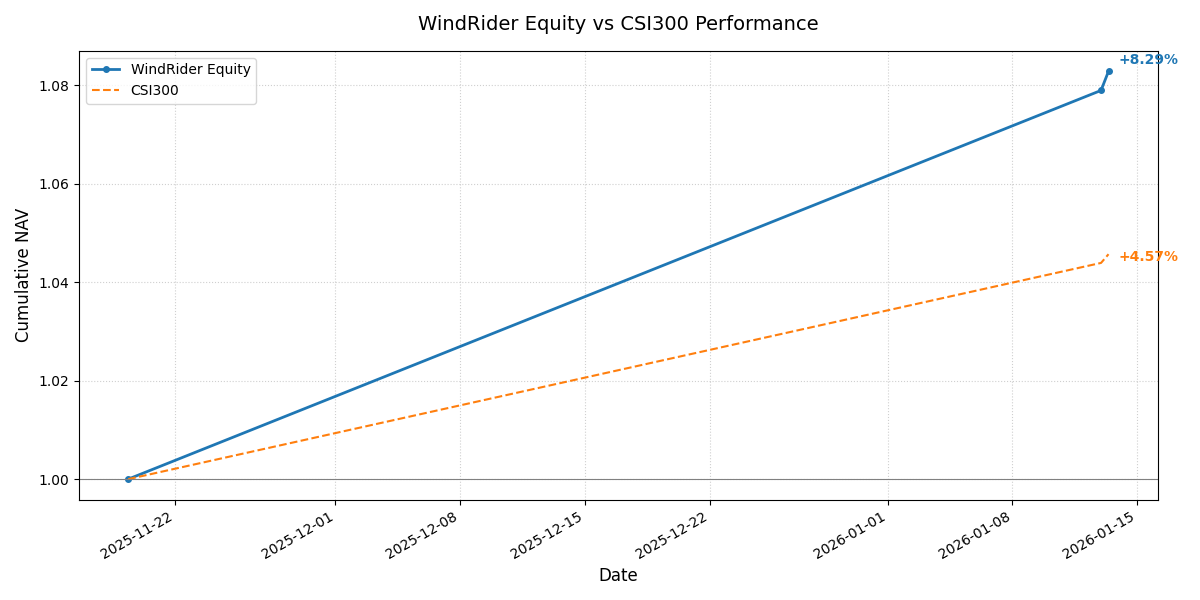
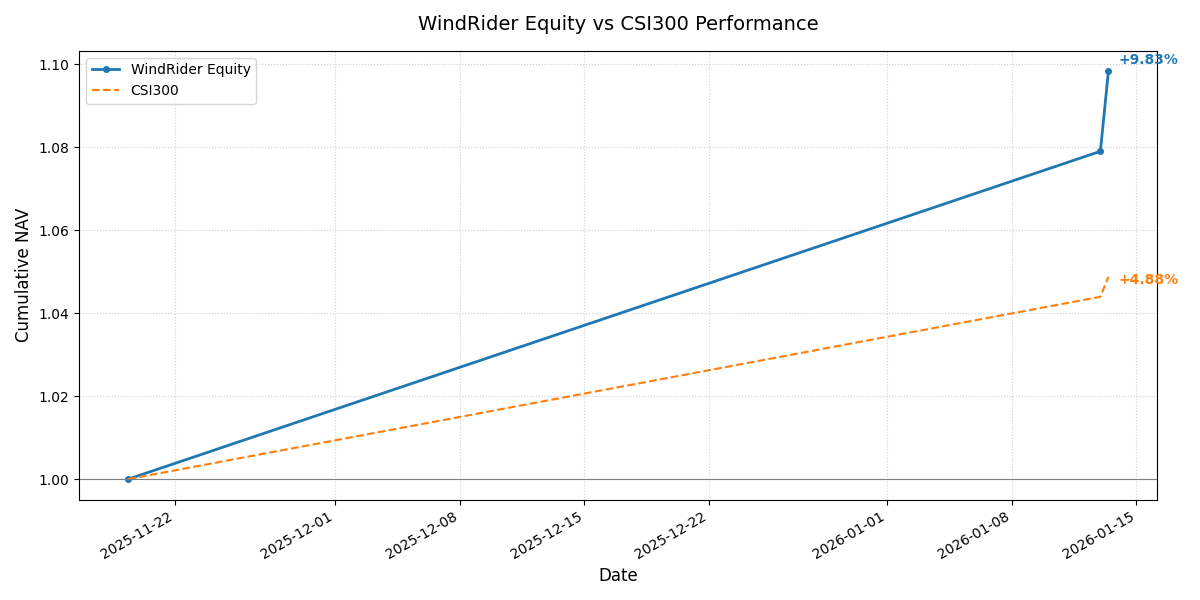
Updated Hugo site content

diff --git a/public/investment/position/index.html b/public/investment/position/index.html
@@ -9,10 +9,10 @@
 
 <meta name="viewport" content="width=device-width, initial-scale=1, shrink-to-fit=no">
 <meta name="robots" content="index, follow">
-<title>Positions | Hankou</title>
+<title>风舵股票组合 (WindRider Equity) /// 每日持仓 | Hankou</title>
 <meta name="keywords" content="">
-<meta name="description" content="The purpose of trading is to make a profit">
-<meta name="author" content="Acj">
+<meta name="description" content="WindRider Stock Portfolio">
+<meta name="author" content="">
 <link rel="canonical" href="https://hankou.com/investment/position/">
 <link crossorigin="anonymous" href="/assets/css/stylesheet.a5781257de4197b8e3d54346acdf1dd55a9ba4cb91dcace192fc1baf228c08b5.css" integrity="sha256-pXgSV95Bl7jj1UNGrN8d1VqbpMuR3KzhkvwbryKMCLU=" rel="preload stylesheet" as="style">
 <link rel="icon" href="https://hankou.com/favicon.ico">
@@ -61,16 +61,16 @@
     </style>
 </noscript><meta property="og:url" content="https://hankou.com/investment/position/">
   <meta property="og:site_name" content="Hankou">
-  <meta property="og:title" content="Positions">
-  <meta property="og:description" content="The purpose of trading is to make a profit">
+  <meta property="og:title" content="风舵股票组合 (WindRider Equity) /// 每日持仓">
+  <meta property="og:description" content="WindRider Stock Portfolio">
   <meta property="og:locale" content="zh-cn">
   <meta property="og:type" content="article">
     <meta property="article:section" content="investment">
-    <meta property="article:published_time" content="2024-12-13T00:00:00+00:00">
-    <meta property="article:modified_time" content="2024-12-13T00:00:00+00:00">
+    <meta property="article:published_time" content="2026-01-13T09:29:49+08:00">
+    <meta property="article:modified_time" content="2026-01-13T09:29:49+08:00">
 <meta name="twitter:card" content="summary">
-<meta name="twitter:title" content="Positions">
-<meta name="twitter:description" content="The purpose of trading is to make a profit">
+<meta name="twitter:title" content="风舵股票组合 (WindRider Equity) /// 每日持仓">
+<meta name="twitter:description" content="WindRider Stock Portfolio">
 
 
 <script type="application/ld+json">
@@ -87,7 +87,7 @@
     {
       "@type": "ListItem",
       "position":  2 ,
-      "name": "Positions",
+      "name": "风舵股票组合 (WindRider Equity) /// 每日持仓",
       "item": "https://hankou.com/investment/position/"
     }
   ]
@@ -97,21 +97,17 @@
 {
   "@context": "https://schema.org",
   "@type": "BlogPosting",
-  "headline": "Positions",
-  "name": "Positions",
-  "description": "The purpose of trading is to make a profit",
+  "headline": "风舵股票组合 (WindRider Equity) /// 每日持仓",
+  "name": "风舵股票组合 (WindRider Equity) \/\/\/ 每日持仓",
+  "description": "WindRider Stock Portfolio",
   "keywords": [
     
   ],
-  "articleBody": "“All trading actions must be justified and can be adjusted.\"\nSHZ (002001) Purchase date：2024-12-13\nAverage Purchase Price：￥21.77 Closing Price of the Previous Trading Day： Positions: days\n",
-  "wordCount" : "26",
+  "articleBody": " 风舵股票组合 /// 指数 WindRider Equity Portfolio 净值简报 (截至: 2026-01-13)\n指数代码： WDR.EQ 成立日期： 2025-11-19 最新净值： 1.0829 今日涨跌： +0.36% ===========================\n核心表现 累计收益： +8.29% 年化收益： +69.64% 最大回撤： 0.00% 基准点位： 4798.05 (CSI300) 策略状态： 运行中 收益率对比曲线 (vs 沪深300) 声明：本页面数据为实盘记录，包含资金进出对份额的除权调整。数据仅供技术交流，不构成投资建议。\n",
+  "wordCount" : "34",
   "inLanguage": "zh-cn",
-  "datePublished": "2024-12-13T00:00:00Z",
-  "dateModified": "2024-12-13T00:00:00Z",
-  "author":{
-    "@type": "Person",
-    "name": "Acj"
-  },
+  "datePublished": "2026-01-13T09:29:49+08:00",
+  "dateModified": "2026-01-13T09:29:49+08:00",
   "mainEntityOfPage": {
     "@type": "WebPage",
     "@id": "https://hankou.com/investment/position/"
@@ -190,60 +186,82 @@
   <header class="post-header">
     
     <h1 class="post-title entry-hint-parent">
-      Positions
+      风舵股票组合 (WindRider Equity) /// 每日持仓
     </h1>
     <div class="post-description">
-      The purpose of trading is to make a profit
+      WindRider Stock Portfolio
     </div>
-    <div class="post-meta"><span title='2024-12-13 00:00:00 +0000 UTC'>December 13, 2024</span>&nbsp;·&nbsp;<span>Acj</span>
+    <div class="post-meta"><span title='2026-01-13 09:29:49 +0800 CST'>January 13, 2026</span>
 
 </div>
   </header> 
-  <div class="post-content"><p>&ldquo;<strong>All trading actions must be justified and can be adjusted.</strong>&quot;<br></p>
-<p>SHZ (002001) <br>
-Purchase date：2024-12-13<br><br>
-Average Purchase Price：￥21.77 <br>
-Closing Price of the Previous Trading Day：<span id="stockPrice"></span> <br>
-Positions: <span id="daysDifference"></span> days</p>
-<script>
-    const today = new Date();
-    const previousDate = new Date('2024-12-13'); // 这里假设之前某日是2024年12月13日
-    const oneDay = 24 * 60 * 60 * 1000; // hours * minutes * seconds * milliseconds
-    const diffDays = Math.round(Math.abs((today - previousDate) / oneDay));
-    document.getElementById('daysDifference').innerText = diffDays;
-</script>
-<script>
-    async function getStockPrice() {
-        const apiKey = 'U31XQFWRL9AC1J4Z';  // 请替换为有效的API密钥
-        const symbol = '002001.SHZ';  
-        const url = `https://www.alphavantage.co/query?function=TIME_SERIES_DAILY&symbol=${symbol}&outputsize=full&apikey=${apiKey}`;
-        
-        try {
-            const response = await fetch(url);
-            const data = await response.json();
-            
-            if (data["Time Series (Daily)"]) {
-                // 获取最近的时间和价格
-                const latestTime = Object.keys(data["Time Series (Daily)"])[0];
-                const latestData = data["Time Series (Daily)"][latestTime];
-                const price = latestData["4. close"];
-
-                // 将价格保留两位小数
-                const formattedPrice = parseFloat(price).toFixed(2);
-
-                // 显示最新的价格
-                document.getElementById('stockPrice').innerText = `￥${formattedPrice}`;
-            } else {
-                document.getElementById('stockPrice').innerText = '获取价格失败，请检查API调用或股票代码是否正确。';
-            }
-        } catch (error) {
-            document.getElementById('stockPrice').innerText = '请求失败，出现错误。';
-        }
-    }
-
-    // 页面加载时获取股票价格
-    window.onload = getStockPrice;
-</script>
+  <div class="post-content"><style>
+.post-header, .article-header { display: none !important; }
+</style>
+<h3 id="风舵股票组合--指数">风舵股票组合   <span style="color: #E63946; font-weight: bold;">/</span><span style="color: #F1A73E; font-weight: bold;">/</span><span style="color: #000091; font-weight: bold;">/</span>   指数<a hidden class="anchor" aria-hidden="true" href="#风舵股票组合--指数">#</a></h3>
+<p>WindRider Equity Portfolio <br>
+净值简报 <small>(截至: 2026-01-13)</small></p>
+<table>
+  <thead>
+      <tr>
+          <th style="text-align: left"></th>
+          <th style="text-align: left"></th>
+      </tr>
+  </thead>
+  <tbody>
+      <tr>
+          <td style="text-align: left"><strong>指数代码：</strong></td>
+          <td style="text-align: left">WDR.EQ</td>
+      </tr>
+      <tr>
+          <td style="text-align: left"><strong>成立日期：</strong></td>
+          <td style="text-align: left">2025-11-19</td>
+      </tr>
+      <tr>
+          <td style="text-align: left"><strong>最新净值：</strong></td>
+          <td style="text-align: left">1.0829</td>
+      </tr>
+      <tr>
+          <td style="text-align: left"><strong>今日涨跌：</strong></td>
+          <td style="text-align: left">+0.36%</td>
+      </tr>
+  </tbody>
+</table>
+<p>===========================</p>
+<table>
+  <thead>
+      <tr>
+          <th style="text-align: left">核心表现</th>
+          <th style="text-align: left"></th>
+      </tr>
+  </thead>
+  <tbody>
+      <tr>
+          <td style="text-align: left"><strong>累计收益：</strong></td>
+          <td style="text-align: left">+8.29%</td>
+      </tr>
+      <tr>
+          <td style="text-align: left"><strong>年化收益：</strong></td>
+          <td style="text-align: left">+69.64%</td>
+      </tr>
+      <tr>
+          <td style="text-align: left"><strong>最大回撤：</strong></td>
+          <td style="text-align: left">0.00%</td>
+      </tr>
+      <tr>
+          <td style="text-align: left"><strong>基准点位：</strong></td>
+          <td style="text-align: left">4798.05 (CSI300)</td>
+      </tr>
+      <tr>
+          <td style="text-align: left"><strong>策略状态：</strong></td>
+          <td style="text-align: left">运行中</td>
+      </tr>
+  </tbody>
+</table>
+<h3 id="收益率对比曲线-vs-沪深300">收益率对比曲线 (vs 沪深300)<a hidden class="anchor" aria-hidden="true" href="#收益率对比曲线-vs-沪深300">#</a></h3>
+<p><img alt="风舵股票净值曲线" loading="lazy" src="/images/investment/windrider_eq_curve.png"></p>
+<hr>
+<p><em>声明：本页面数据为实盘记录，包含资金进出对份额的除权调整。数据仅供技术交流，不构成投资建议。</em></p>
 
 
   </div>

diff --git a/public/investment/index.html b/public/investment/index.html
@@ -146,6 +146,18 @@
 
 <article class="post-entry"> 
   <header class="entry-header">
+    <h2 class="entry-hint-parent">风舵股票组合 (WindRider Equity) /// 每日持仓
+    </h2>
+  </header>
+  <div class="entry-content">
+    <p>主动管理型股票组合。对标沪深300指数，采用基本面选股与波段交易相结合的策略…</p>
+  </div>
+  <footer class="entry-footer"><span title='2026-01-13 09:29:49 +0800 CST'>January 13, 2026</span></footer>
+  <a class="entry-link" aria-label="post link to 风舵股票组合 (WindRider Equity) /// 每日持仓" href="https://hankou.com/investment/position/"></a>
+</article>
+
+<article class="post-entry"> 
+  <header class="entry-header">
     <h2 class="entry-hint-parent">风舵1号 (WindRider I)  /// 指数
     </h2>
   </header>
@@ -167,21 +179,6 @@
   </div>
   <footer class="entry-footer"><span title='2025-12-13 00:00:00 +0000 UTC'>December 13, 2025</span>&nbsp;·&nbsp;<span>Acj</span></footer>
   <a class="entry-link" aria-label="post link to Better a witty fool that a foolish wit" href="https://hankou.com/investment/guide-1/"></a>
-</article>
-
-<article class="post-entry"> 
-  <header class="entry-header">
-    <h2 class="entry-hint-parent">Positions
-    </h2>
-  </header>
-  <div class="entry-content">
-    <p>“All trading actions must be justified and can be adjusted.&#34;
-SHZ (002001) Purchase date：2024-12-13
-Average Purchase Price：￥21.77 Closing Price of the Previous Trading Day： Positions: days
-</p>
-  </div>
-  <footer class="entry-footer"><span title='2024-12-13 00:00:00 +0000 UTC'>December 13, 2024</span>&nbsp;·&nbsp;<span>Acj</span></footer>
-  <a class="entry-link" aria-label="post link to Positions" href="https://hankou.com/investment/position/"></a>
 </article>
     </main>
     

diff --git a/content/investment/position.md b/content/investment/position.md
@@ -1,8 +1,8 @@
 +++
 title = "风舵股票组合 (WindRider Equity) /// 每日持仓"
 summary = "主动管理型股票组合。对标沪深300指数，采用基本面选股与波段交易相结合的策略..."
-date = 2026-01-13T09:29:49+08:00
-lastmod = 2026-01-13T09:29:49+08:00
+date = 2026-01-13T10:14:38+08:00
+lastmod = 2026-01-13T10:14:38+08:00
 draft = false
 description = "WindRider Stock Portfolio"
 +++
@@ -18,21 +18,30 @@ WindRider Equity Portfolio <br>
 | :--- | :--- |
 | **指数代码：** | WDR.EQ |
 | **成立日期：** | 2025-11-19 |
-| **最新净值：** | 1.0829 |
-| **今日涨跌：** | +0.36% |
+| **最新净值：** | 1.0983 |
+| **今日涨跌：** | +1.79% |
 
 ===========================
 
 | 核心表现 | |
 | :--- | :--- |
-| **累计收益：** | +8.29% |
-| **年化收益：** | +69.64% |
+| **累计收益：** | +9.83% |
+| **年化收益：** | +86.31% |
 | **最大回撤：** | 0.00% |
-| **基准点位：** | 4798.05 (CSI300) |
+| **基准点位：** | 4812.04 (CSI300) |
 | **策略状态：** | 运行中 |
+
+### 当前持仓明细
+| 股票名称 | 持仓数量 | 成本价 | 现价 | 盈亏 | 占比 |
+| :--- | :--- | :--- | :--- | :--- | :--- |
+| 先导智能 <small>300450</small> | 800 | 49.41 | 57.57 | <span style="color:#E63946">+16.51%</span> | 51.77% |
+| 新 和 成 <small>002001</small> | 1,600 | 24.77 | 25.67 | <span style="color:#E63946">+3.62%</span> | 46.17% |
+
 
 ### 收益率对比曲线 (vs 沪深300)
 ![风舵股票净值曲线](/images/investment/windrider_eq_curve.png)
 
 ---
-*声明：本页面数据为实盘记录，包含资金进出对份额的除权调整。数据仅供技术交流，不构成投资建议。*
+*声明：本页面数据为实盘记录，包含资金进出对份额的除权调整。<br>
+成本价为建仓加权平均参考值，持仓数据每日收盘后更新。<br>
+数据仅供技术交流，不构成投资建议。*
